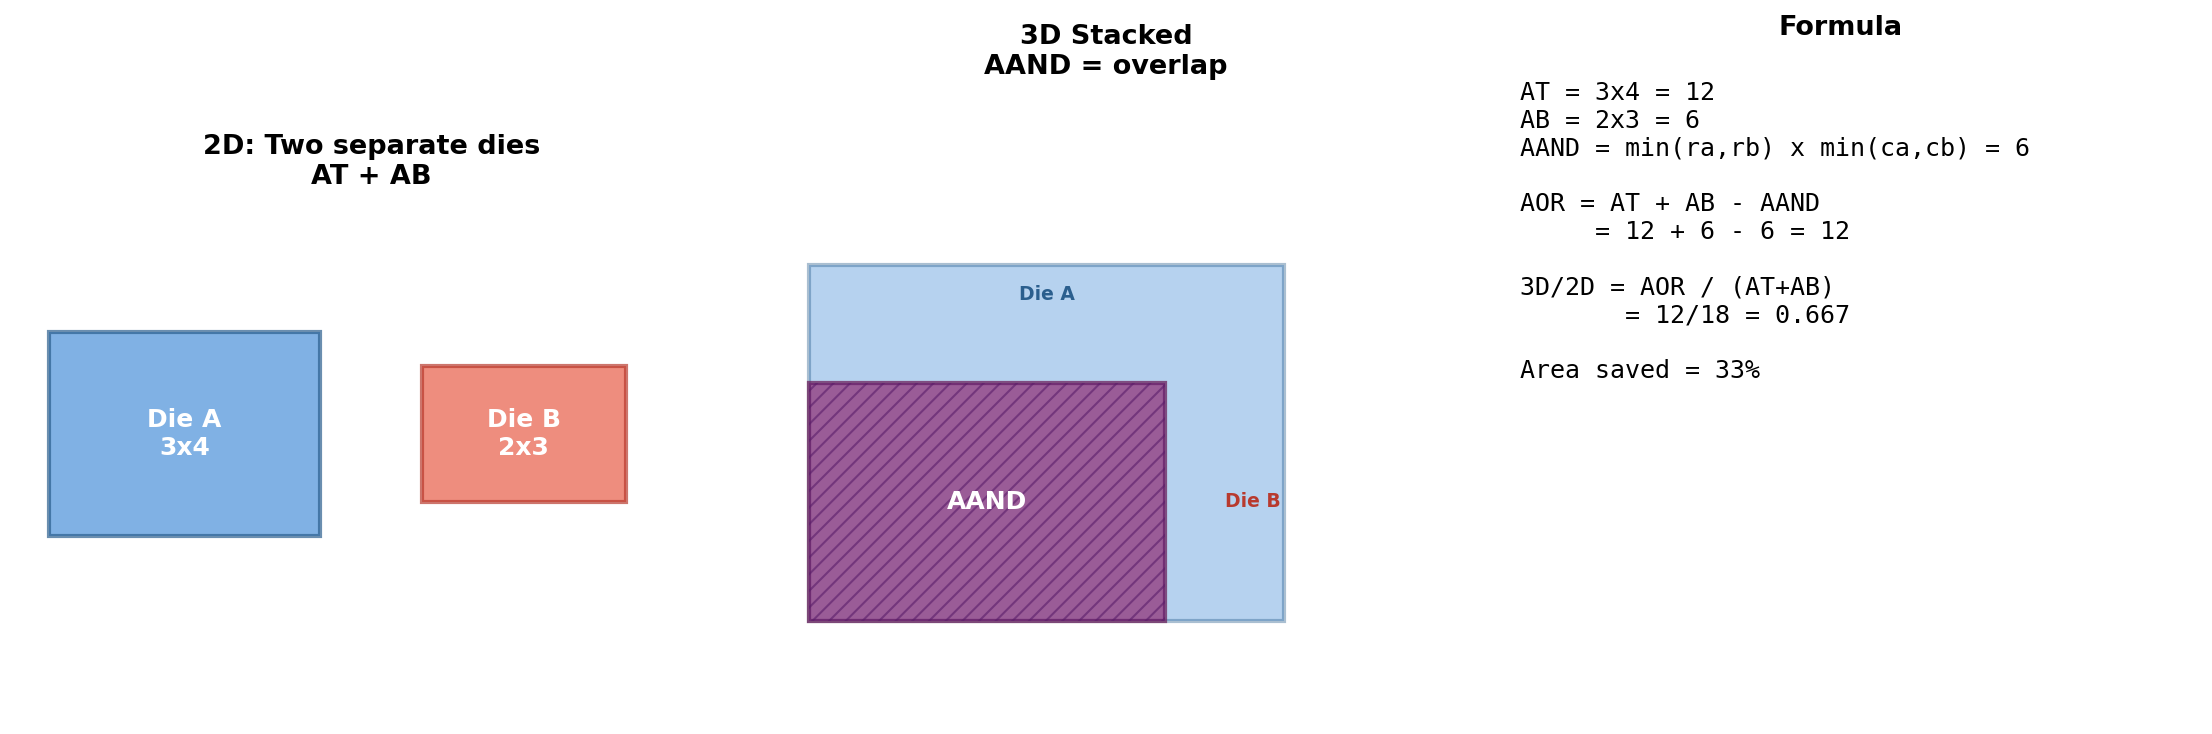
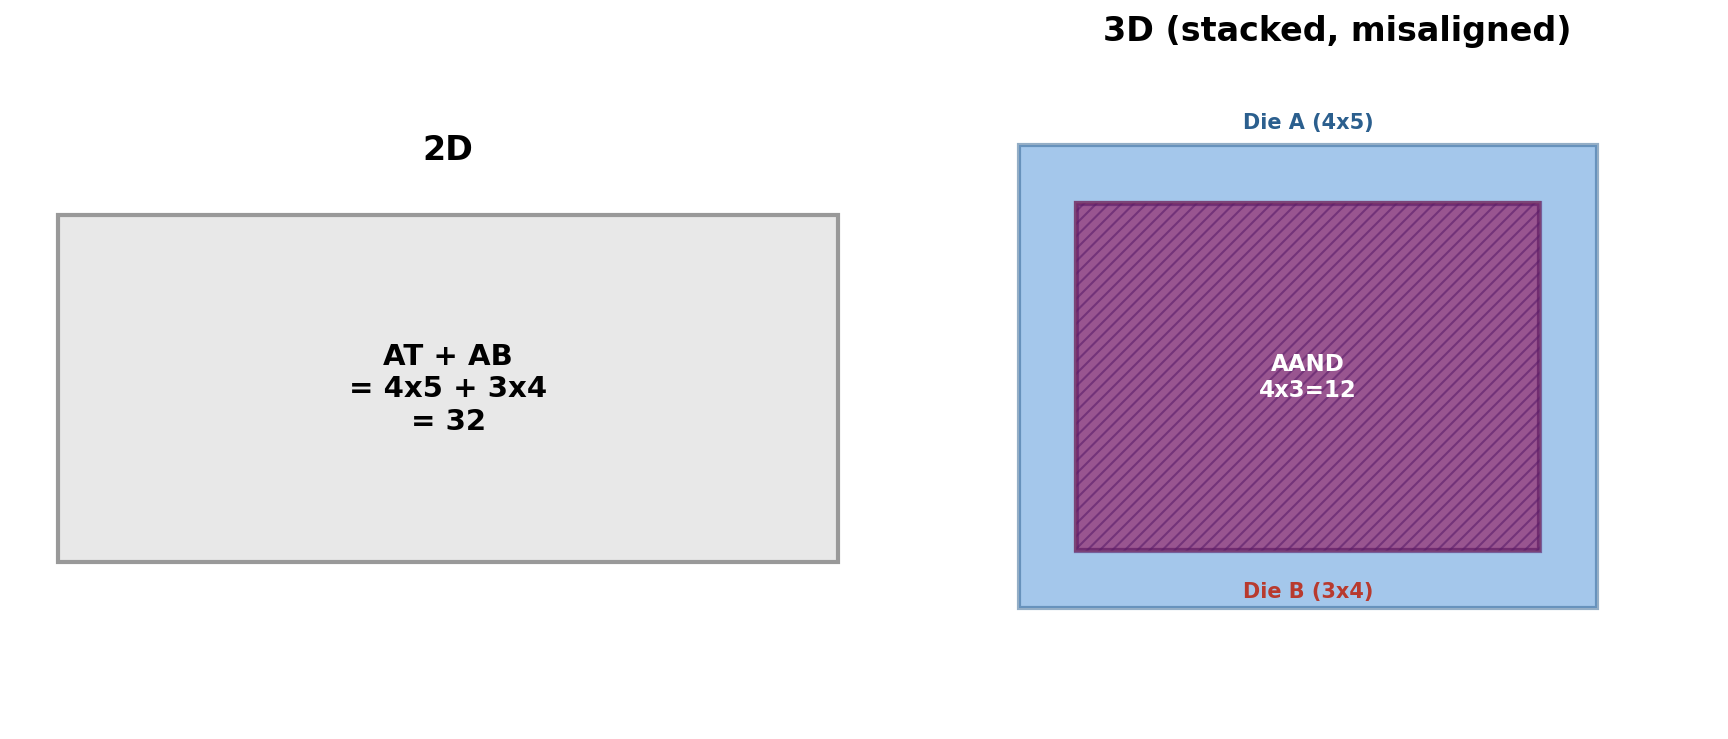
fix: simplify AAND/AOR diagram — 2D is one big rect, 3D is two offset rects

diff --git a/experiment.py b/experiment.py
@@ -605,68 +605,50 @@ def plot_area_utilization(n_max: int = 100, save_path: str | None = None):
 
 
 def plot_aand_aor_diagram(save_path: str | None = None):
-    """Schematic: illustrate AAND (overlap) and AOR (union) for two misaligned dies."""
+    """Simple schematic: 2D = big rectangle; 3D = two offset rectangles, overlap = AAND."""
     try:
         import matplotlib.pyplot as plt
         import matplotlib.patches as mpatches
     except ImportError:
         return
 
-    fig, axes = plt.subplots(1, 3, figsize=(15, 5))
+    ra, ca = 4, 5   # Die A (top)
+    rb, cb = 3, 4   # Die B (bottom)
 
-    ra, ca = 3, 4; rb, cb = 2, 3
+    fig, (ax1, ax2) = plt.subplots(1, 2, figsize=(12, 5))
 
-    # ── Left: Two dies separately ──
-    ax = axes[0]
-    ax.add_patch(mpatches.Rectangle((0, 0), ca, ra, facecolor='#4A90D9', edgecolor='#2B5F8E',
-                  linewidth=2, alpha=0.7))
-    ax.add_patch(mpatches.Rectangle((5.5, 0.5), cb, rb, facecolor='#E85D47', edgecolor='#B83A2E',
-                  linewidth=2, alpha=0.7))
-    ax.text(ca/2, ra/2, f'Die A\n{ra}x{ca}', ha='center', va='center', fontsize=12,
-            fontweight='bold', color='white')
-    ax.text(5.5+cb/2, 0.5+rb/2, f'Die B\n{rb}x{cb}', ha='center', va='center', fontsize=12,
-            fontweight='bold', color='white')
-    ax.set_xlim(-0.5, 10); ax.set_ylim(-0.5, 5)
-    ax.set_aspect('equal'); ax.axis('off')
-    ax.set_title('2D: Two separate dies\nAT + AB', fontsize=13, fontweight='bold')
+    # ── Left: 2D = 一个大的矩形 ──
+    ax1.add_patch(mpatches.Rectangle((0, 0), ca + cb, max(ra, rb),
+                  facecolor='#E8E8E8', edgecolor='#999', linewidth=2))
+    ax1.text((ca+cb)/2, max(ra,rb)/2, f'AT + AB\n= {ra}x{ca} + {rb}x{cb}\n= {ra*ca+rb*cb}',
+             ha='center', va='center', fontsize=14, fontweight='bold')
+    ax1.set_xlim(-0.5, ca+cb+0.5); ax1.set_ylim(-0.5, max(ra,rb)+0.5)
+    ax1.set_aspect('equal'); ax1.axis('off')
+    ax1.set_title('2D', fontsize=16, fontweight='bold')
 
-    # ── Middle: Stacked ──
-    ax = axes[1]
-    ax.add_patch(mpatches.Rectangle((0, 0), ca, ra, facecolor='#4A90D9', edgecolor='#2B5F8E',
-                  linewidth=2, alpha=0.4))
-    ax.add_patch(mpatches.Rectangle((0, 0), cb, rb, facecolor='#E85D47', edgecolor='#B83A2E',
-                  linewidth=2, alpha=0.4))
-    # AAND
-    aoverlap = min(ra, rb) * min(ca, cb)
-    ax.add_patch(mpatches.Rectangle((0, 0), min(ca, cb), min(ra, rb),
-                  facecolor='#7B2D8B', edgecolor='#5A1D6A', linewidth=2, alpha=0.6, hatch='///'))
-    ax.text(min(ca,cb)/2, min(ra,rb)/2, 'AAND', ha='center', va='center',
-            fontsize=12, fontweight='bold', color='white')
-    ax.text(ca/2, ra-0.3, 'Die A', ha='center', fontsize=9, color='#2B5F8E', fontweight='bold')
-    ax.text(cb+0.5, rb/2, 'Die B', ha='left', va='center', fontsize=9, color='#B83A2E', fontweight='bold')
-    ax.set_xlim(-0.5, 5.5); ax.set_ylim(-0.5, 4.5)
-    ax.set_aspect('equal'); ax.axis('off')
-    ax.set_title('3D Stacked\nAAND = overlap', fontsize=13, fontweight='bold')
+    # ── Right: 3D = 两个小矩形错开，重叠区 = AAND ──
+    dx, dy = 0.5, 0.5  # misalignment offset
+    # Die A
+    ax2.add_patch(mpatches.Rectangle((0, 0), ca, ra, facecolor='#4A90D9',
+                  edgecolor='#2B5F8E', linewidth=2, alpha=0.5))
+    ax2.text(ca/2, ra+0.15, f'Die A ({ra}x{ca})', ha='center', fontsize=10, color='#2B5F8E', fontweight='bold')
+    # Die B (offset)
+    ax2.add_patch(mpatches.Rectangle((dx, dy), cb, rb, facecolor='#E85D47',
+                  edgecolor='#B83A2E', linewidth=2, alpha=0.5))
+    ax2.text(dx+cb/2, dy-0.4, f'Die B ({rb}x{cb})', ha='center', fontsize=10, color='#B83A2E', fontweight='bold')
 
-    # ── Right: Formula ──
-    ax = axes[2]
-    at = ra * ca; ab = rb * cb
-    aor = at + ab - aoverlap
-    ratio_val = aor / (at + ab)
-    text = (
-        f"AT = {ra}x{ca} = {at}\n"
-        f"AB = {rb}x{cb} = {ab}\n"
-        f"AAND = min(ra,rb) x min(ca,cb) = {aoverlap}\n\n"
-        f"AOR = AT + AB - AAND\n"
-        f"     = {at} + {ab} - {aoverlap} = {aor}\n\n"
-        f"3D/2D = AOR / (AT+AB)\n"
-        f"       = {aor}/{at+ab} = {ratio_val:.3f}\n\n"
-        f"Area saved = {1-ratio_val:.0%}"
-    )
-    ax.text(0.05, 0.95, text, ha='left', va='top', fontsize=12, family='monospace',
-            transform=ax.transAxes)
-    ax.axis('off')
-    ax.set_title('Formula', fontsize=13, fontweight='bold')
+    # AAND: overlap = intersection of two rectangles
+    ao_w = max(0, min(ca, dx+cb) - max(0, dx))  # overlap width
+    ao_h = max(0, min(ra, dy+rb) - max(0, dy))  # overlap height
+    if ao_w > 0 and ao_h > 0:
+        ax2.add_patch(mpatches.Rectangle((dx, dy), ao_w, ao_h,
+                      facecolor='#7B2D8B', edgecolor='#5A1D6A', linewidth=2.5, alpha=0.6, hatch='////'))
+        ax2.text(dx+ao_w/2, dy+ao_h/2, f'AAND\n{int(ao_w)}x{int(ao_h)}={int(ao_w*ao_h)}',
+                 ha='center', va='center', fontsize=11, fontweight='bold', color='white')
+
+    ax2.set_xlim(-0.5, max(ca, dx+cb)+1); ax2.set_ylim(-1, max(ra, dy+rb)+0.8)
+    ax2.set_aspect('equal'); ax2.axis('off')
+    ax2.set_title('3D (stacked, misaligned)', fontsize=16, fontweight='bold')
 
     plt.tight_layout()
     if save_path:
